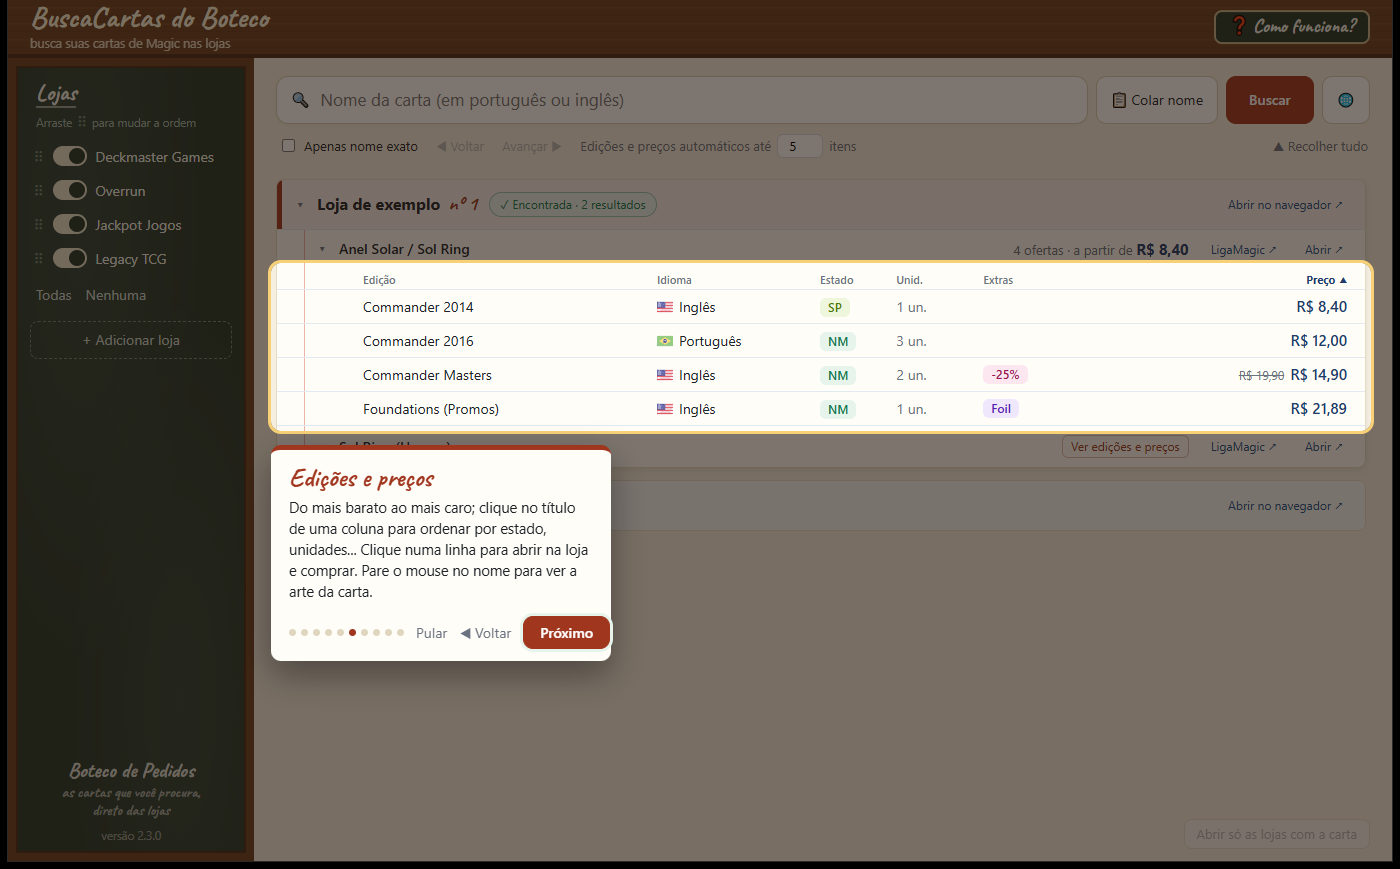
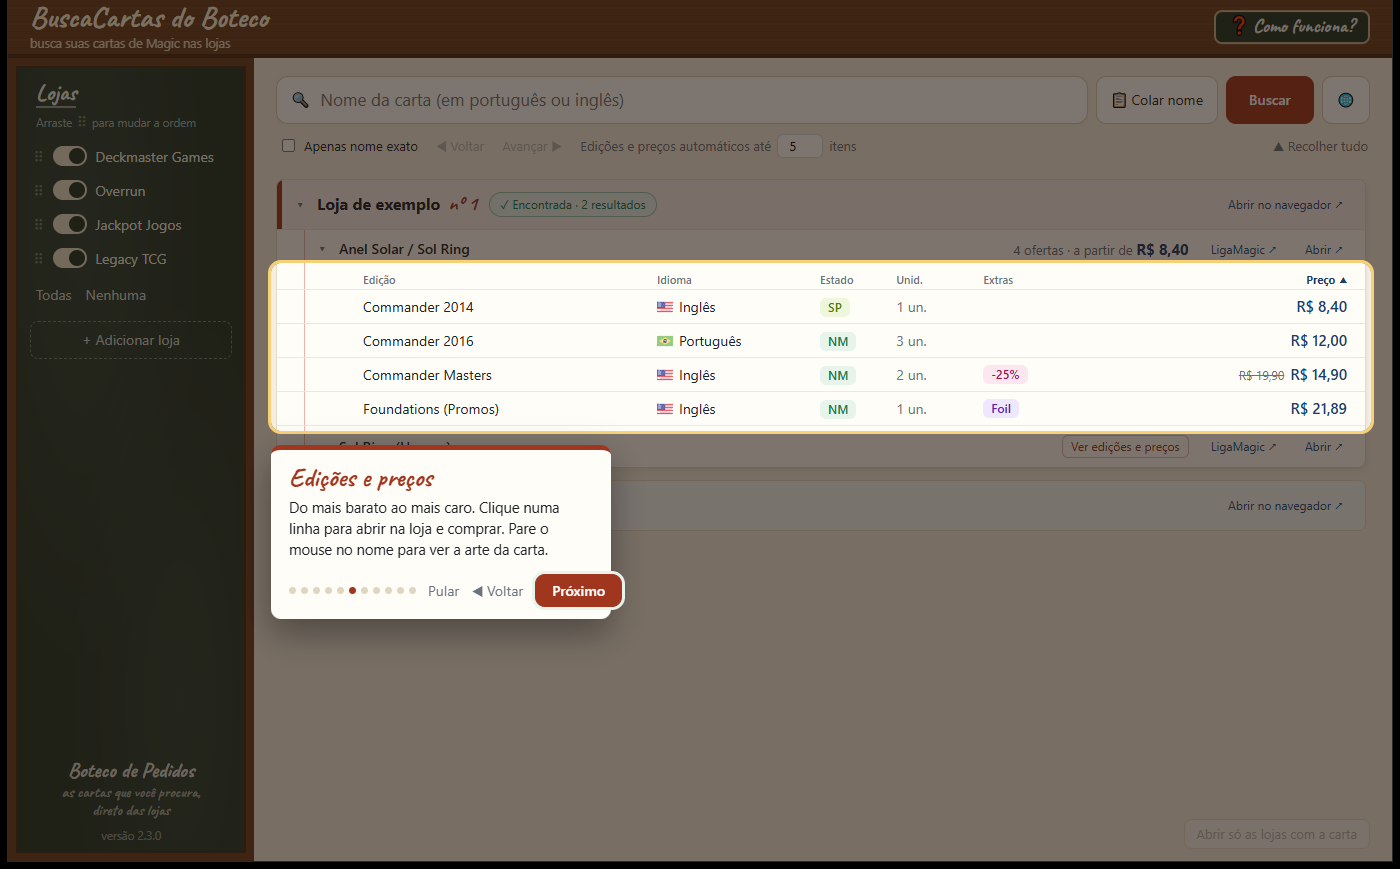
Passo próprio do tutorial para ordenar pelas colunas

Changed region(s): [[0.1843, 0.5593, 0.4607, 0.7768]]

diff --git a/buscador/web/pagina/tutorial.js b/buscador/web/pagina/tutorial.js
@@ -51,7 +51,9 @@ const PASSOS = [
   { alvo: no("#resultados .cartao > .cab"),
     titulo: "Uma comanda por loja", texto: "Verde: a loja tem a carta. Clique no nome da loja para abrir ou fechar." },
   { alvo: no("#resultados .item:not(.fechado) .corpo"),
-    titulo: "Edições e preços", texto: "Do mais barato ao mais caro; clique no título de uma coluna para ordenar por estado, unidades... Clique numa linha para abrir na loja e comprar. Pare o mouse no nome para ver a arte da carta." },
+    titulo: "Edições e preços", texto: "Do mais barato ao mais caro. Clique numa linha para abrir na loja e comprar. Pare o mouse no nome para ver a arte da carta." },
+  { alvo: no("#resultados .item:not(.fechado) thead"),
+    titulo: "Ordene como quiser", texto: "Clique no título de uma coluna para ordenar por estado, unidades, extras ou preço. Outro clique inverte; o terceiro volta ao normal." },
   { alvo: no("#resultados .item-cab .liga"),
     titulo: "Compare com a LigaMagic", texto: "Abre a carta na LigaMagic, no seu navegador, para comparar os preços." },
   { alvo: no("#resultados .item-cab .pedir"),

diff --git a/docs/ROTEIRO.md b/docs/ROTEIRO.md
@@ -49,7 +49,7 @@
 - **Colunas para ordenar** (pedido do dono, 19/11/2026): clicar no título da coluna das edições para ordenar por estado (qualidade), unidades, extras ou preço, parecido com o filtro de uma planilha. Feito (ramificação `colunas-ordenar`):
   - Cada tabela de edições ganhou uma linha discreta com os títulos (Edição, Idioma, Estado, Unid., Extras, Preço). Um clique ordena **todas** as tabelas por aquela coluna, do jeito mais útil primeiro (estado do melhor para o pior, unidades de quem tem mais, extras primeiro, edição e idioma de A a Z, preço do menor); outro clique inverte; o terceiro volta ao normal (do menor para o maior preço, a ordem da loja). A coluna ativa fica em negrito com ▲ (ordem normal dela) ou ▼ (invertida), e o rodapé diz a ordem atual.
   - Empate fica na ordem da loja (preço); sem dado (estado, unidades ou preço vazios) vai sempre para o fim. A escolha vale até fechar o programa, para todas as buscas, e é só da tela (`ordenacao` em `app.js`): nenhuma requisição a mais.
-  - O passo "Edições e preços" do tutorial menciona os títulos das colunas.
+  - O tutorial ganhou um passo próprio, "Ordene como quiser", logo depois de "Edições e preços", destacando os títulos das colunas.
 - **Avisar que existe versão nova** (pedido do dono, 19/11/2026): feito (ramificação `aviso-versao-nova`), em `buscador/atualizacao.py`.
   - Ao abrir, a página chama `Ponte.versao_nova()` (numa thread do pywebview, sem atrasar a tela). Ela consulta `api.github.com/repos/vitor-botechi/buscacartas-do-boteco/releases/latest` no máximo uma vez por dia (data e resultado guardados no `config.json`: `versao_checada_em`, `versao_ultima`), com 6 s de limite. Sem internet ou com erro, fica em silêncio até o dia seguinte. Só aceita endereços do próprio projeto no GitHub e ignora rascunhos e pré-lançamentos.
   - Se a versão de lá for mais nova que `__version__`, aparece um recado de lousa no alto da área da busca: "Saiu a versão X!", com **⬇ Baixar a versão X** (abre o download do `BuscaCartas.exe` no navegador; depois o texto explica: quando terminar, feche este programa e abra o novo), **O que mudou ↗** (página da versão) e **Agora não** (some por 3 dias para aquela versão: `versao_adiada`; uma versão ainda mais nova avisa logo).
@@ -101,7 +101,7 @@
   - **Recolher/Expandir tudo também nas lojas** (pedido do dono, mesma ramificação): antes só fechava e abria os itens que já tinham edições e preços, então numa busca com muitos resultados sem preço o botão não fazia nada. Agora o Recolher fecha as lojas e os itens; o Expandir abre as lojas e os itens já carregados (sem carregar nada novo) e mantém o "Mostrar mais" de cada loja.
 - Busca inteligente que tolere erro de digitação: avisar que o nome parece errado, sugerir o certo (como o Google) e pesquisar mesmo assim. Incluir o caso de nome ambíguo em "Apenas nome exato" (ex.: "Thalia"): avisar que há várias cartas e sugerir os nomes completos (o Scryfall já informa a ambiguidade).
 - **Tutorial dentro do aplicativo**: feito (ramificação `tutorial`, montada em cima da `apresentacao`). Botão **❓ Como funciona?** no balcão, à direita. Na primeira vez que o programa abre, ele pulsa e tem ao lado um convite a giz ("Primeira vez aqui? Clique que eu te mostro!", com × para dispensar); abrir o tutorial ou dispensar o convite grava `tutorial_visto` no `config.json` (`Ponte.marcar_tutorial_visto`), e o convite não volta.
-  - O passeio (`web/pagina/tutorial.js`) escurece a tela, destaca um ponto de cada vez e mostra um balão de comanda com título a giz e uma ou duas frases: boas-vindas, lojas, campo de busca, Colar nome, comanda da loja, edições e preços (com a arte ao parar o mouse), "Ver edições e preços"/"Carregar todos os preços", "LigaMagic ↗" (ramificação `ligamagic`), Apenas nome exato e, por fim, o próprio botão para rever. 10 passos, com bolinhas de progresso, Voltar, Pular e Próximo; teclado: Enter ou → avança, ← volta, Esc fecha (enquanto ele está aberto, as teclas não chegam à busca).
+  - O passeio (`web/pagina/tutorial.js`) escurece a tela, destaca um ponto de cada vez e mostra um balão de comanda com título a giz e uma ou duas frases: boas-vindas, lojas, campo de busca, Colar nome, comanda da loja, edições e preços (com a arte ao parar o mouse), ordenar pelas colunas (ramificação `colunas-ordenar`), "Ver edições e preços"/"Carregar todos os preços", "LigaMagic ↗" (ramificação `ligamagic`), Apenas nome exato e, por fim, o próprio botão para rever. 11 passos, com bolinhas de progresso, Voltar, Pular e Próximo; teclado: Enter ou → avança, ← volta, Esc fecha (enquanto ele está aberto, as teclas não chegam à busca).
   - Para mostrar os resultados, a área recebe uma **busca de exemplo** ("Loja de exemplo" com a carta, um item com 4 edições, incluindo promoção e Foil, outro ainda sem preço, e "Outra loja" sem a carta), desenhada pelas mesmas funções da tela e sem requisição nenhuma. Ao fechar, a tela volta como estava, inclusive com o que uma busca em andamento trouxe nesse meio-tempo.
   - Pendente, se o dono quiser: revisar os textos e a ordem dos passos depois de testar; talvez um passo para Voltar/Avançar e Recolher tudo (ficaram de fora para o passeio não ficar longo).
 - Pesquisar uma lista inteira de cartas: aceitar um nome por linha e formatos como `1 Sol Ring` e `4x Island`. Exige ritmo mais lento (uma lista de 30 cartas em 4 lojas são 120 buscas) e talvez sem detalhes automáticos; mostrar por loja quantas cartas da lista ela tem.
